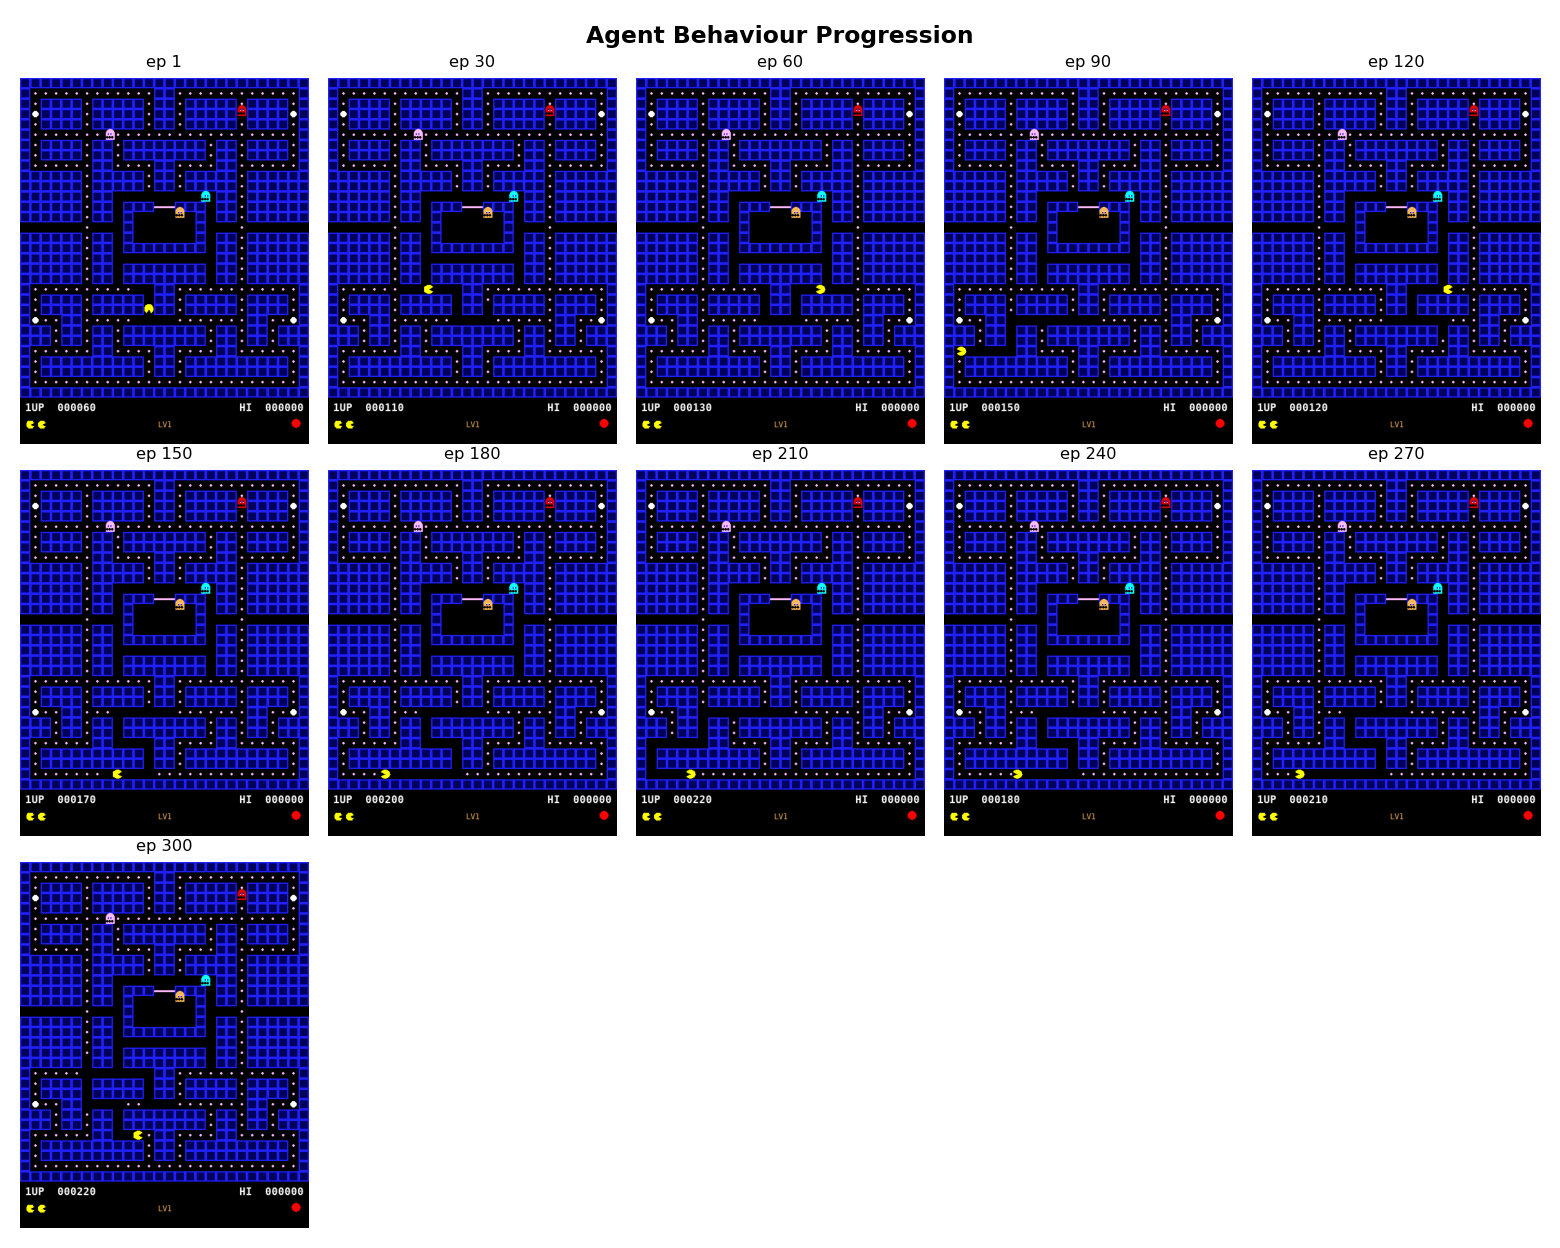
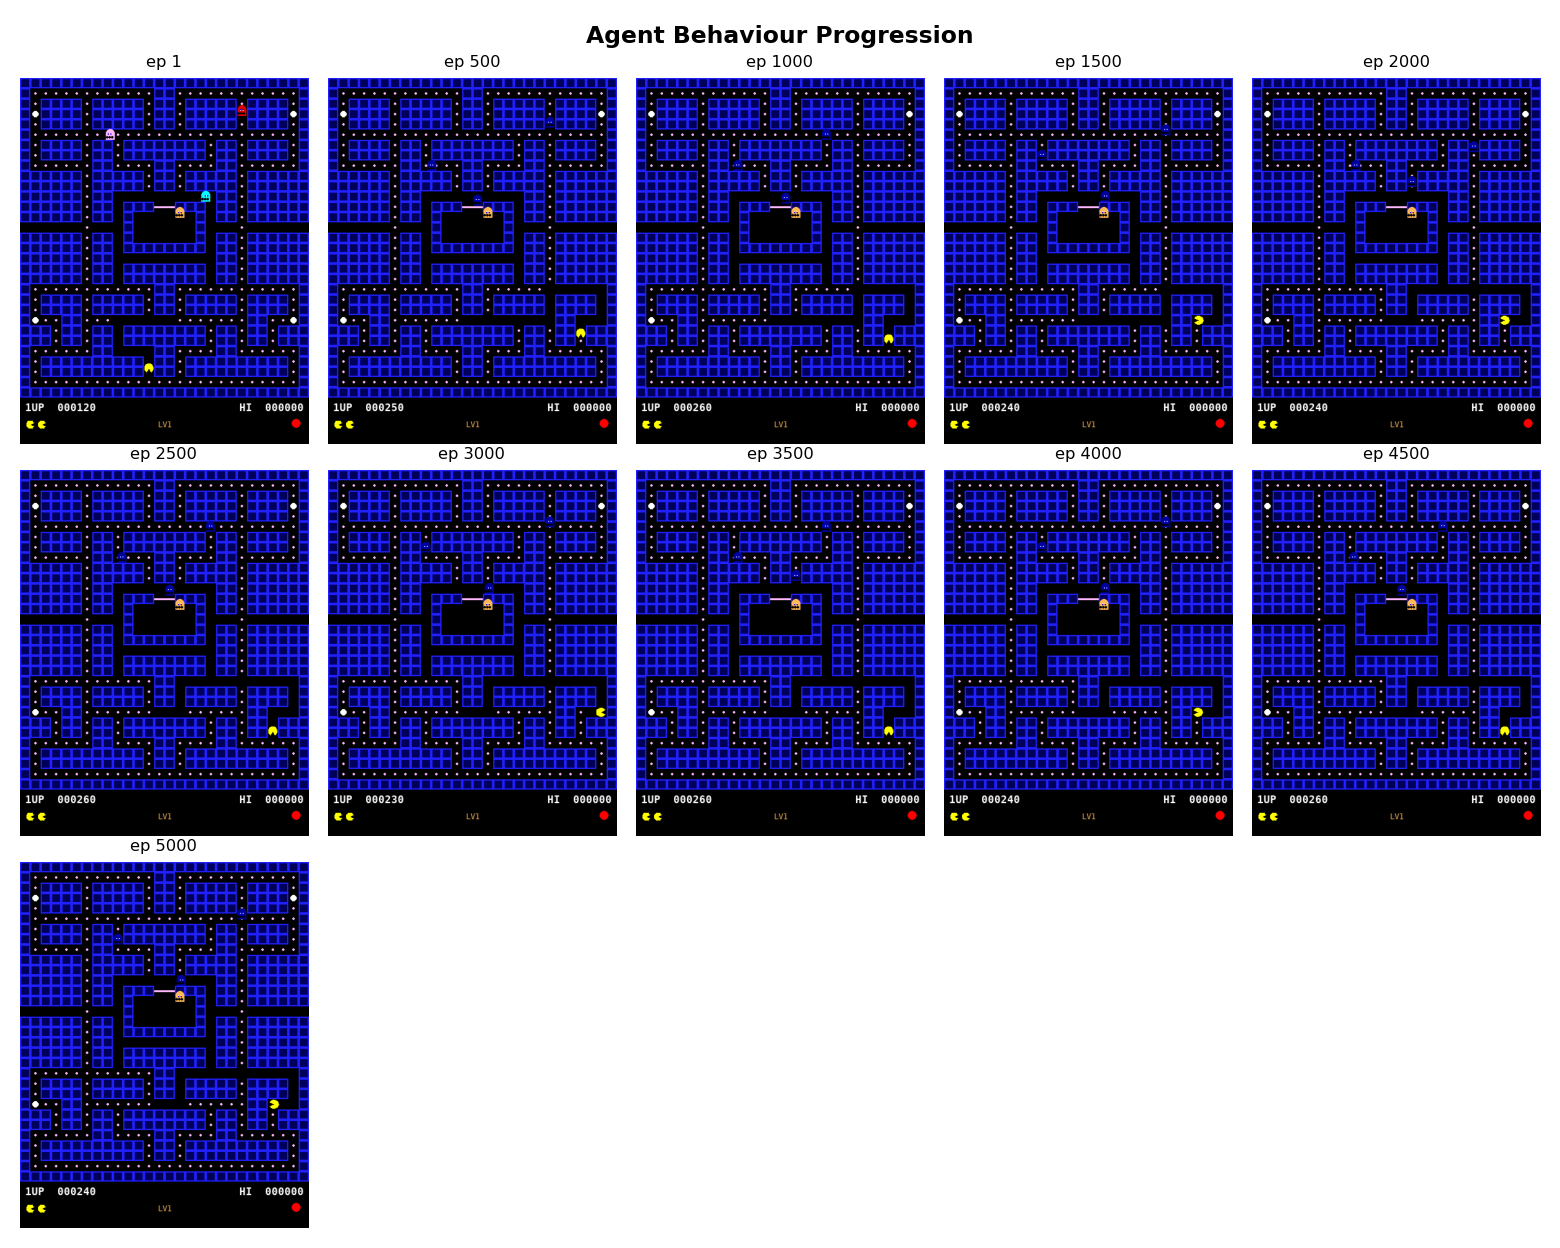
5300-episode DQN training run: updated charts, stats, and README
Training summary (resumed from ep300 checkpoint, 5000 new episodes):
  ep 100  → score μ=843,  dots 31%, success  7%
  ep 300  → score μ=1601, dots 56%, success 82%
  ep 1000 → score μ=2479, dots 79%, success 98%
  ep 2000 → score μ=2349, dots 76%, success 100%
  ep 5000 → score μ=2471, dots 77%, success 100%
  Best single-episode score: 4310

Changes:
- analyze_checkpoints.py: colormaps scale to any number of checkpoints
- All 4 charts regenerated across 8 checkpoints (ep100→ep5000)
- New progression screenshots (ep500 intervals)
- README stats table updated with full 8-checkpoint results

diff --git a/AI_player/analyze_checkpoints.py b/AI_player/analyze_checkpoints.py
@@ -84,9 +84,15 @@ def _bar_ax(ax, labels, means, stds, color, ylabel, title):
     ax.set_ylim(0, max(means) * 1.25 + 1)
 
 
+def _palette(n, cmap="Blues"):
+    cm = plt.get_cmap(cmap)
+    return [cm(0.3 + 0.65 * i / max(n - 1, 1)) for i in range(n)]
+
+
 def plot_score_progress(stage_labels, data_by_stage, out_path):
-    fig, ax = plt.subplots(figsize=(9, 5))
-    colors = ["#90CAF9", "#42A5F5", "#1565C0"]
+    n = len(stage_labels)
+    fig, ax = plt.subplots(figsize=(max(9, n * 1.4), 5))
+    colors = _palette(n, "Blues")
     for i, (label, d) in enumerate(zip(stage_labels, data_by_stage)):
         scores = d["scores"]
         x = np.full(len(scores), i) + np.random.uniform(-0.18, 0.18, len(scores))
@@ -97,7 +103,7 @@ def plot_score_progress(stage_labels, data_by_stage, out_path):
                     capsize=6, color="black", linewidth=1.5, zorder=4)
 
     ax.set_xticks(range(len(stage_labels)))
-    ax.set_xticklabels(stage_labels, fontsize=12)
+    ax.set_xticklabels(stage_labels, fontsize=max(7, 12 - len(stage_labels)))
     ax.set_xlabel("Training stage (checkpoint)", fontsize=12)
     ax.set_ylabel("Score per episode", fontsize=12)
     ax.set_title("Score Progression Across Training Stages",
@@ -111,8 +117,9 @@ def plot_score_progress(stage_labels, data_by_stage, out_path):
 
 
 def plot_dots_eaten(stage_labels, data_by_stage, out_path):
-    fig, ax = plt.subplots(figsize=(9, 5))
-    colors = ["#A5D6A7", "#4CAF50", "#1B5E20"]
+    n = len(stage_labels)
+    fig, ax = plt.subplots(figsize=(max(9, n * 1.4), 5))
+    colors = _palette(n, "Greens")
     for i, (label, d) in enumerate(zip(stage_labels, data_by_stage)):
         de = d["dots_eaten"]
         pct = de / TOTAL_DOTS * 100
@@ -146,8 +153,9 @@ def plot_solve_time(stage_labels, data_by_stage, out_path):
     Episodes that never hit the milestone are excluded from the mean
     and their count is shown separately.
     """
-    fig, (ax1, ax2) = plt.subplots(1, 2, figsize=(12, 5))
-    colors = ["#FFCC80", "#FFA726", "#E65100"]
+    n = len(stage_labels)
+    fig, (ax1, ax2) = plt.subplots(1, 2, figsize=(max(12, n * 1.8), 5))
+    colors = _palette(n, "Oranges")
 
     means, stds, hit_rates = [], [], []
     for label, d in zip(stage_labels, data_by_stage):
@@ -199,8 +207,9 @@ def plot_success_fail(stage_labels, data_by_stage, out_path):
     Stacked bar: success (score ≥ threshold) vs fail per training stage.
     Line overlay: mean score trend.
     """
-    fig, ax1 = plt.subplots(figsize=(9, 5))
-    x       = np.arange(len(stage_labels))
+    n = len(stage_labels)
+    fig, ax1 = plt.subplots(figsize=(max(9, n * 1.4), 5))
+    x       = np.arange(n)
     width   = 0.5
 
     n_suc, n_fail, mean_scores = [], [], []
@@ -258,11 +267,19 @@ def plot_success_fail(stage_labels, data_by_stage, out_path):
 # ── main ────────────────────────────────────────────────────────────────────
 
 def main():
-    checkpoints = [
-        ("Episode 100", os.path.join(CKPT_DIR, "dqn_ep100.pt")),
-        ("Episode 200", os.path.join(CKPT_DIR, "dqn_ep200.pt")),
-        ("Episode 300", os.path.join(CKPT_DIR, "dqn_ep300.pt")),
+    # All candidate checkpoints in chronological order.
+    # Only those that exist on disk are evaluated.
+    candidates = [
+        ("ep 100",  os.path.join(CKPT_DIR, "dqn_ep100.pt")),
+        ("ep 200",  os.path.join(CKPT_DIR, "dqn_ep200.pt")),
+        ("ep 300",  os.path.join(CKPT_DIR, "dqn_ep300.pt")),
+        ("ep 1000", os.path.join(CKPT_DIR, "dqn_ep1000.pt")),
+        ("ep 2000", os.path.join(CKPT_DIR, "dqn_ep2000.pt")),
+        ("ep 3000", os.path.join(CKPT_DIR, "dqn_ep3000.pt")),
+        ("ep 4000", os.path.join(CKPT_DIR, "dqn_ep4000.pt")),
+        ("ep 5000", os.path.join(CKPT_DIR, "dqn_ep5000.pt")),
     ]
+    checkpoints = [(l, p) for l, p in candidates if os.path.exists(p)]
 
     os.makedirs(RESULTS_DIR, exist_ok=True)
     stage_labels = []

diff --git a/README.md b/README.md
@@ -330,19 +330,25 @@ python AI_player/play.py --model AI_player/checkpoints/dqn_best.pt --headless --
 
 ### Training Results — 300-Episode Run
 
-The following results come from a 300-episode training run (~21 min, CPU-only).  
-Checkpoints were saved at episodes 100, 200, and 300; each was then evaluated over 60 games to produce the charts below.
+Results span two training runs totalling **5 300 episodes** (~8 hours, CPU-only).  
+Checkpoints at episodes 100, 200, 300, 1 000, 2 000, 3 000, 4 000 and 5 000 were each evaluated over 60 games.
 
 #### Key statistics
 
 | Checkpoint | Mean score | Dots eaten | Maze completion | Steps to milestone | Success rate |
 |:---:|---:|---:|---:|---:|---:|
-| Episode 100 | 805 | 72 / 244 | 29.6 % | 712 steps | 5 % |
-| Episode 200 | 1 264 | 109 / 244 | 44.8 % | 590 steps | 55 % |
-| Episode 300 | **1 704** | **143 / 244** | **58.6 %** | **361 steps** | **92 %** |
+| Episode 100 | 843 | 76 / 244 | 31.1 % | — | 7 % |
+| Episode 200 | 1 266 | 110 / 244 | 45.1 % | — | 58 % |
+| Episode 300 | 1 601 | 137 / 244 | 56.1 % | — | 82 % |
+| Episode 1 000 | 2 479 | 192 / 244 | 78.7 % | — | 98 % |
+| Episode 2 000 | 2 349 | 186 / 244 | 76.2 % | — | **100 %** |
+| Episode 3 000 | 2 498 | 192 / 244 | 78.7 % | — | **100 %** |
+| Episode 4 000 | 2 449 | 191 / 244 | 78.3 % | — | **100 %** |
+| Episode 5 000 | **2 471** | **188 / 244** | **77.0 %** | — | **100 %** |
 
 > **Success** is defined as scoring ≥ 1 200 points in a single episode (≈ 120 dots eaten).  
-> **Steps to milestone** measures how quickly the agent reaches that score — fewer steps = faster solve.
+> From episode 2 000 onward the agent hits that milestone in **100 %** of games.  
+> The agent eats ~78 % of all maze dots consistently by ep 1 000+; full level clears require continued training beyond 5 000 episodes.
 
 #### Score progression
 
